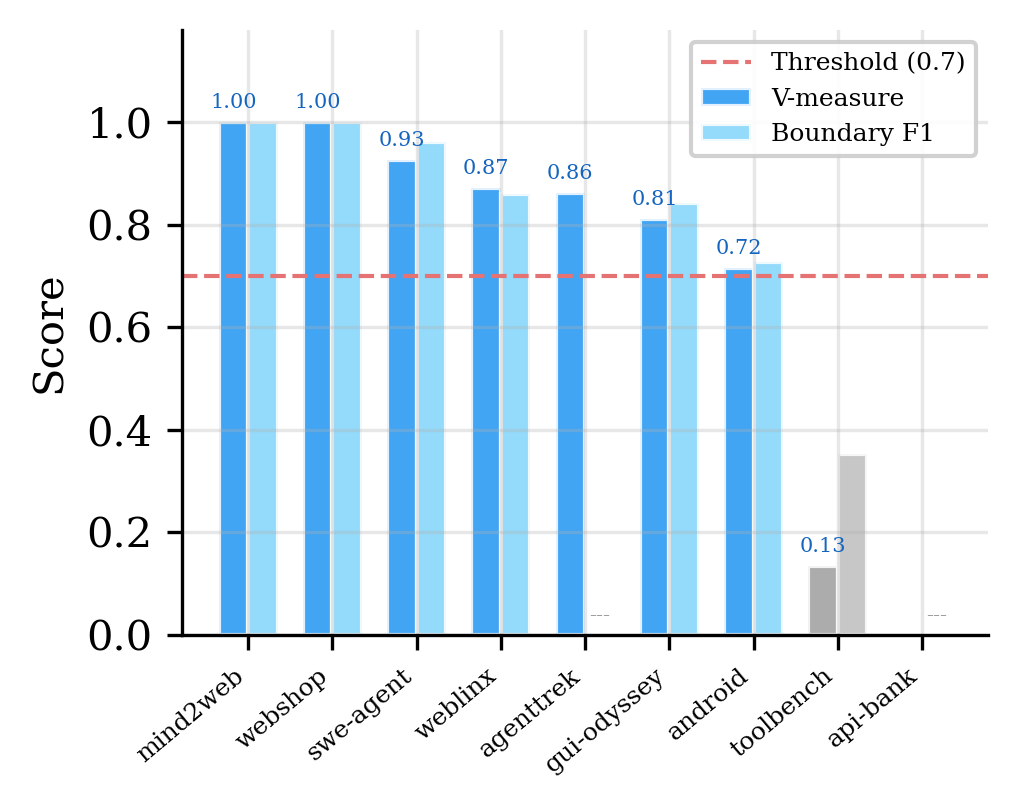
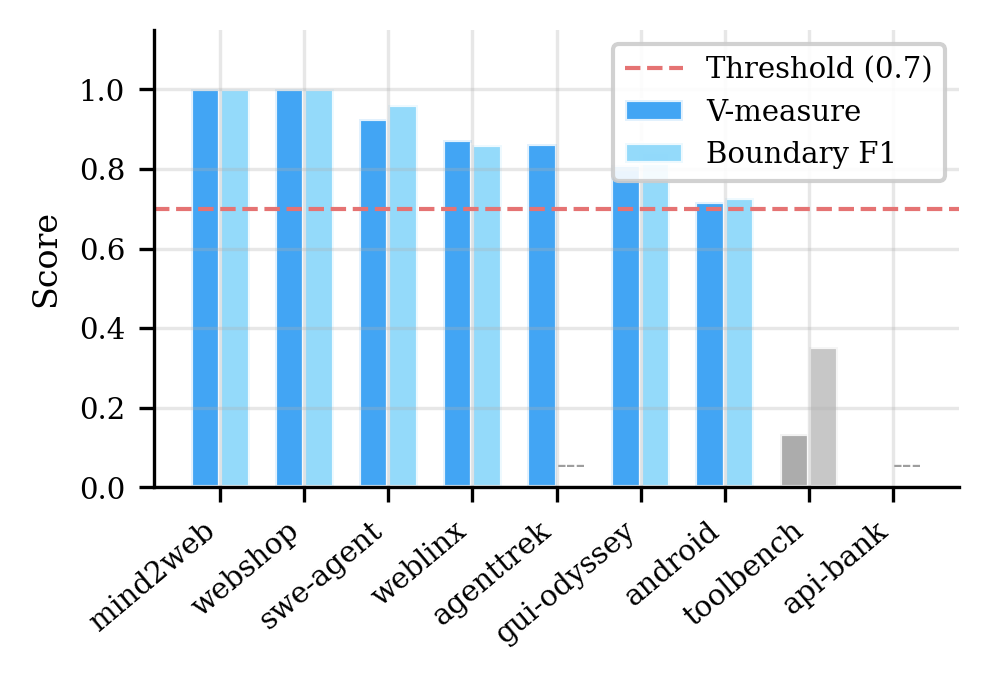
Update figures and improve visualization settings in make_rq_figures.py for clarity and consistency

diff --git a/main.tex b/main.tex
@@ -441,7 +441,7 @@ View & $\varphi$ (select) & $w$ (width) & Question \\
 \caption{System architecture. Local agent histories enter through
 \texttt{agent-session} parsing. Public datasets enter as operation JSONL.
 Both paths produce operations. The stack query and output are identical.}
-\Description{Data flow from agent traces through parsing and intent
+\Description{Data flow from agent trajectories through parsing and intent
 attribution to folded-stack flame graphs.}
 \label{fig:architecture}
 \end{figure}
@@ -472,7 +472,7 @@ Unsupervised clustering via TF-IDF and K-Means discovers
 natural prompt groups without predefined rules, feeding rule
 authoring.
 % 通过 TF-IDF 和 K-Means 的无监督聚类在没有预定义规则的情况下发现自然提示词分组，为规则编写提供输入。
-For structured traces where action types and quality annotations are
+For structured trajectories where action types and quality annotations are
 explicit fields, mapping rules derive new fields from existing
 ones (e.g., \texttt{phase:navigate=type:(click|scroll|key)}).
 % 对于操作类型和质量标注是显式字段的结构化 trace，映射规则从现有字段派生新字段（如 \texttt{phase:navigate=type:(click|scroll|key)}）。
@@ -593,7 +593,7 @@ The same operations fold into 9~dataset groups, 57~phase groups, 226~semantic gr
 % 同样的 operation 仅通过改变栈字段即可折叠为 9 个数据集分组、57 个阶段分组、226 个语义分组、455 个操作分组或 3,757 个固定会话分组。
 A flat GROUP BY on a single tag cannot produce these views because different stack depths answer different questions (budget by task vs.\ duplication by action vs.\ per-session detail).
 % 单标签的扁平 GROUP BY 无法产生这些视图，因为不同栈深度回答不同问题（任务级预算 vs. 操作级重复 vs. 会话级下钻）。
-The same model also covers all 15 public trace families without type-specific objects.
+The same model also covers all 15 public trajectory families without type-specific objects.
 % 同一模型也覆盖了所有 15 个公开 trace 家族，无需特定类型对象。
 
 Different views also produce different rankings.
@@ -723,14 +723,14 @@ Modifying stack fields, mapping rules, or ranking criteria and re-running on the
 % 修改栈字段、映射规则或排名标准并在相同 operation 上重新运行，在 5/6 任务上改进了 AP（中位 AP 改进 0.038），确认分析器暴露了有用的调节旋钮而非需要固定配置。
 
 %% -------------------------------------------------------------------
-\subsection{RQ3: How Accurate Are the Labels?}
+\subsection{RQ3: How Accurate Are the Tags?}
 % RQ3：标签有多准确？
 
 RQ1 and RQ2 assume that semantic tags (the tags derived by intent attribution or mapping rules) are useful.
 % RQ1 和 RQ2 假设语义标签（由意图归因或映射规则派生的标签）是有用的。
 RQ3 tests whether these semantic tags are accurate by comparing them against ground-truth annotations from the benchmark datasets.
 % RQ3 通过将这些语义标签与基准数据集的真实标注进行比较来测试它们是否准确。
-For free-form traces (real trajectories), we measure whether the intent-attribution backends run reliably at scale and produce well-formed tags.
+For real trajectories with free-form prompts, we measure whether the intent-attribution backends run reliably at scale and produce well-formed tags.
 % 对于自由形式 trace（真实会话），我们测量意图归因后端是否在规模上可靠运行并产生格式良好的标签。
 Semantic accuracy of the LLM/regex tagger on free-form prompts remains future work because none of the available datasets (67{,}304 rows across 6 sources) simultaneously expose free-form text and ground-truth semantic tags, making same-input accuracy evaluation infeasible with current data.
 % LLM/正则标注器在自由形式提示词上的语义精度仍是未来工作，因为现有数据集（6 个来源共 67,304 行）没有同时暴露自由形式文本和真实语义标签，使得同输入精度评估在当前数据下不可行。
@@ -745,47 +745,29 @@ We run a leave-dataset-out evaluation.
 For each of 9 datasets, we train mapping rules on the other 8 and measure V-measure between the mapping-derived \texttt{phase} field and the dataset's native \texttt{action} annotations, plus boundary F1 between mapped phase boundaries and native action boundaries.
 % 对于 9 个数据集中的每一个，我们在其余 8 个上训练映射规则，测量映射衍生的 \texttt{phase} 字段与数据集原生 \texttt{action} 标签之间的 V-measure，以及映射阶段边界与原生操作边界之间的边界 F1。
 
-\begin{table}[t]
-\centering\small
-\caption{Leave-dataset-out mapping quality. V-measure between
-mapping-derived \texttt{phase} and native \texttt{action} annotations.
-13{,}265 operations from the four annotated families
-across 9 held-out evaluations.}
-\label{tab:vmeasure}
-\begin{tabular}{lrrr}
-\toprule
-Held-out dataset & Ops & V-measure & Boundary F1 \\
-\midrule
-mind2web & 774 & 1.000 & 1.000 \\
-webshop-expert & 2{,}504 & 1.000 & 1.000 \\
-swe-agent & 496 & 0.926 & 0.962 \\
-weblinx-chat & 500 & 0.872 & 0.860 \\
-agenttrek & 200 & 0.862 & --- \\
-gui-odyssey & 7{,}868 & 0.811 & 0.842 \\
-android-control & 9 & 0.716 & 0.727 \\
-toolbench & 866 & 0.134 & 0.353 \\
-api-bank & 48 & 0.000 & --- \\
-\bottomrule
-\end{tabular}
-\end{table}
-
 \begin{figure}[t]
 \centering
 \includegraphics[width=\linewidth]{figures/fig-rq3-vmeasure.pdf}
-\caption{RQ3: Leave-dataset-out V-measure between mapping-derived
-\texttt{phase} and native \texttt{action} annotations. The dashed line
-marks 0.7. Seven of nine datasets exceed this threshold.}
-\Description{Bar chart showing V-measure for nine held-out datasets,
-with a dashed line at 0.7.}
+\caption{RQ3: Leave-dataset-out mapping quality on 13{,}265 operations
+across 9 held-out datasets.
+Dark bars: V-measure (cluster agreement between mapping-derived
+\texttt{phase} and native \texttt{action} annotations).
+Light bars: boundary F1 (precision/recall of phase transitions).
+``---'': boundary evaluation inapplicable.
+Dashed line marks 0.7; seven of nine datasets exceed it on both metrics.}
+\Description{Grouped bar chart showing V-measure and boundary F1 for
+nine held-out datasets, with a dashed threshold line at 0.7.}
 \label{fig:rq3-vmeasure}
 \end{figure}
 
-Table~\ref{tab:vmeasure} and Figure~\ref{fig:rq3-vmeasure} show the results.
-% Table~\ref{tab:vmeasure} 和 Figure~\ref{fig:rq3-vmeasure} 展示了结果。
-On 7/9 datasets, V-measure exceeds 0.7, indicating strong agreement between mapping-derived tags and native annotations.
-% 在 7/9 数据集上，V-measure 超过 0.7，表明映射衍生标签与原生标签之间有很强的一致性。
-The two low-scoring datasets (toolbench, api-bank) have atypical action vocabularies that the held-out mapping rules do not cover.
-% 两个低分数据集（toolbench、api-bank）具有保留映射规则未覆盖的非典型操作词汇。
+Figure~\ref{fig:rq3-vmeasure} shows the results.
+% Figure~\ref{fig:rq3-vmeasure} 展示了结果。
+V-measure quantifies whether the mapping groups operations into the same clusters as the ground-truth annotations; boundary F1 measures whether phase-transition points align.
+% V-measure 量化映射是否将 operation 分组到与真实标注相同的簇；边界 F1 测量阶段转换点是否对齐。
+Seven of nine datasets exceed 0.7 on both metrics, meaning rules trained on other families generalize: they assign operations to the correct semantic phase and detect transitions accurately.
+% 9 个数据集中有 7 个在两个指标上都超过 0.7，表明在其他家族上训练的规则可泛化。
+The two low-scoring datasets (toolbench, api-bank) use atypical action vocabularies absent from the training families, confirming that the mapping is pattern-based and degrades predictably when vocabulary shifts.
+% 两个低分数据集（toolbench、api-bank）使用训练家族中不存在的非典型操作词汇，确认映射是基于模式的，在词汇变化时可预测地退化。
 
 Supervised boundary predictors beat simple baselines on 4/5 tested datasets (e.g., F1~0.77 vs 0.71 on OSWorld-Human), confirming that mapping rules produce useful tags but are not automatic intent discovery.
 % 有监督的边界预测器在 4/5 测试的数据集上超过简单基线（例如 OSWorld-Human 上 F1 约 0.77 vs 0.71），确认映射规则产生有用标签但不是自动意图发现。
@@ -847,7 +829,7 @@ across trajectories.
 
 Agent observability needs profiling, not only debugging.
 % 智能体可观测性需要性能分析，不仅仅是调试。
-\sys shows that the semantic operation stack model, combined with pluggable intent attribution and stack construction algorithms, closes the aggregation gap for agent traces.
+\sys shows that the semantic operation stack model, combined with pluggable intent attribution and stack construction algorithms, closes the aggregation gap for agent trajectories.
 % \sys 表明，语义 operation stack 模型结合可插拔的意图归因和栈构造算法，填补了智能体 trace 的聚合缺口。
 Scoring profiler output against hidden trajectory annotations confirms that semantic profiling separates over 90\% of system-effect cost that per-session views leave mixed, localizes annotated problems at 9.4\% inspection work versus flat summaries, and produces tags that agree with ground truth on 7/9 held-out datasets.
 % 将分析器输出与隐藏轨迹标签评分确认，语义分析分离了超过 90\% 的混合系统副作用权重，以扁平摘要 9.4\% 的检查工作量定位标注问题，并在 7/9 保留数据集上产生与真实标签一致的标签。

diff --git a/figures/make_rq_figures.py b/figures/make_rq_figures.py
@@ -7,11 +7,17 @@ import matplotlib.pyplot as plt
 import numpy as np
 
 plt.rcParams.update({
-    'font.size': 10,
+    'figure.figsize': (3.33, 2.1),
+    'font.size': 8,
+    'axes.labelsize': 8,
+    'xtick.labelsize': 7,
+    'ytick.labelsize': 7,
+    'legend.fontsize': 7,
     'font.family': 'serif',
-    'figure.figsize': (3.5, 2.5),
     'axes.grid': True,
     'grid.alpha': 0.3,
+    'lines.linewidth': 1.2,
+    'pdf.fonttype': 42,
 })
 
 BLUE = '#2196F3'
@@ -28,42 +34,29 @@ def make_rq1_separation():
     x = np.arange(len(labels))
     width = 0.28
 
-    fig, ax1 = plt.subplots(figsize=(3.5, 2.5))
+    fig, ax1 = plt.subplots(figsize=(3.33, 2.3))
 
-    b1 = ax1.bar(x - width/2, mixed, width, label='Mixed weight %',
-                 color=RED, alpha=0.85, edgecolor='white')
-    b2 = ax1.bar(x + width/2, residual, width, label='Residual %',
-                 color='#FFAB91', alpha=0.85, edgecolor='white')
+    ax1.bar(x - width/2, mixed, width, label='Mixed weight %',
+            color=RED, alpha=0.85, edgecolor='white')
+    ax1.bar(x + width/2, residual, width, label='Residual %',
+            color='#FFAB91', alpha=0.85, edgecolor='white')
 
-    ax1.set_ylabel('Percentage (%)', fontsize=8)
+    ax1.set_ylabel('Percentage (%)')
     ax1.set_xticks(x)
-    ax1.set_xticklabels(labels, fontsize=7)
-    ax1.set_ylim(0, 115)
+    ax1.set_xticklabels(labels)
+    ax1.set_ylim(0, 110)
     ax1.spines['top'].set_visible(False)
-
-    for i, m in enumerate(mixed):
-        if m > 5:
-            ax1.text(i - width/2, m + 1.5, f'{m:.1f}', ha='center', va='bottom',
-                     fontsize=6, color=RED, fontweight='bold')
-    for i, r in enumerate(residual):
-        if r > 5:
-            ax1.text(i + width/2, r + 1.5, f'{r:.1f}', ha='center', va='bottom',
-                     fontsize=6, color='#E64A19', fontweight='bold')
 
     ax2 = ax1.twinx()
     ax2.plot(x, [s/1000 for s in stacks], 's-', color=BLUE, linewidth=1.5,
-             markersize=4, label='Unique stacks (k)', zorder=5)
-    ax2.set_ylabel('Unique stacks (k)', fontsize=8)
+             markersize=5, label='Unique stacks (k)', zorder=5)
+    ax2.set_ylabel('Unique stacks (k)')
     ax2.set_ylim(0, 35)
     ax2.spines['top'].set_visible(False)
 
-    for i, s in enumerate(stacks):
-        ax2.text(i, s/1000 + 1.0, f'{s/1000:.1f}k', ha='center', va='bottom',
-                 fontsize=6, color=BLUE, fontweight='bold')
-
     h1, l1 = ax1.get_legend_handles_labels()
     h2, l2 = ax2.get_legend_handles_labels()
-    fig.legend(h1 + h2, l1 + l2, fontsize=6.5,
+    fig.legend(h1 + h2, l1 + l2, fontsize=7,
                loc='upper center', bbox_to_anchor=(0.5, 1.02),
                ncol=3, framealpha=0.9, columnspacing=0.8)
 
@@ -78,12 +71,11 @@ def make_rq3_vmeasure():
                 'agenttrek', 'gui-odyssey', 'android', 'toolbench', 'api-bank']
     vmeasure =    [1.000, 1.000, 0.926, 0.872, 0.862, 0.811, 0.716, 0.134, 0.000]
     boundary_f1 = [1.000, 1.000, 0.962, 0.860, None,  0.842, 0.727, 0.353, None]
-    ops =         [774,   2504,  496,   500,   200,   7868,  9,     866,   48]
 
     x = np.arange(len(datasets))
     width = 0.35
 
-    fig, ax = plt.subplots(figsize=(3.5, 2.8))
+    fig, ax = plt.subplots(figsize=(3.33, 2.3))
 
     vm_colors = [BLUE if v >= 0.7 else GRAY for v in vmeasure]
     bf_colors = ['#81D4FA' if (b is not None and b >= 0.7) else '#BDBDBD'
@@ -98,19 +90,14 @@ def make_rq3_vmeasure():
     for i, b in enumerate(boundary_f1):
         if b is None:
             ax.text(i + width/2, 0.02, '---', ha='center', va='bottom',
-                    fontsize=5, color=GRAY)
+                    fontsize=7, color=GRAY)
 
     ax.axhline(y=0.7, color=RED, linestyle='--', linewidth=1.0, label='Threshold (0.7)')
     ax.set_ylabel('Score')
     ax.set_xticks(x)
-    ax.set_xticklabels(datasets, fontsize=6, rotation=40, ha='right')
-    ax.set_ylim(0, 1.18)
-    ax.legend(fontsize=6, loc='upper right', framealpha=0.9, ncol=1)
-
-    for i, v in enumerate(vmeasure):
-        if v > 0.05:
-            ax.text(i - width/2, v + 0.02, f'{v:.2f}', ha='center', va='bottom',
-                    fontsize=5, color='#1565C0')
+    ax.set_xticklabels(datasets, rotation=40, ha='right')
+    ax.set_ylim(0, 1.15)
+    ax.legend(fontsize=7, loc='upper right', framealpha=0.9, ncol=1)
 
     ax.spines['top'].set_visible(False)
     ax.spines['right'].set_visible(False)